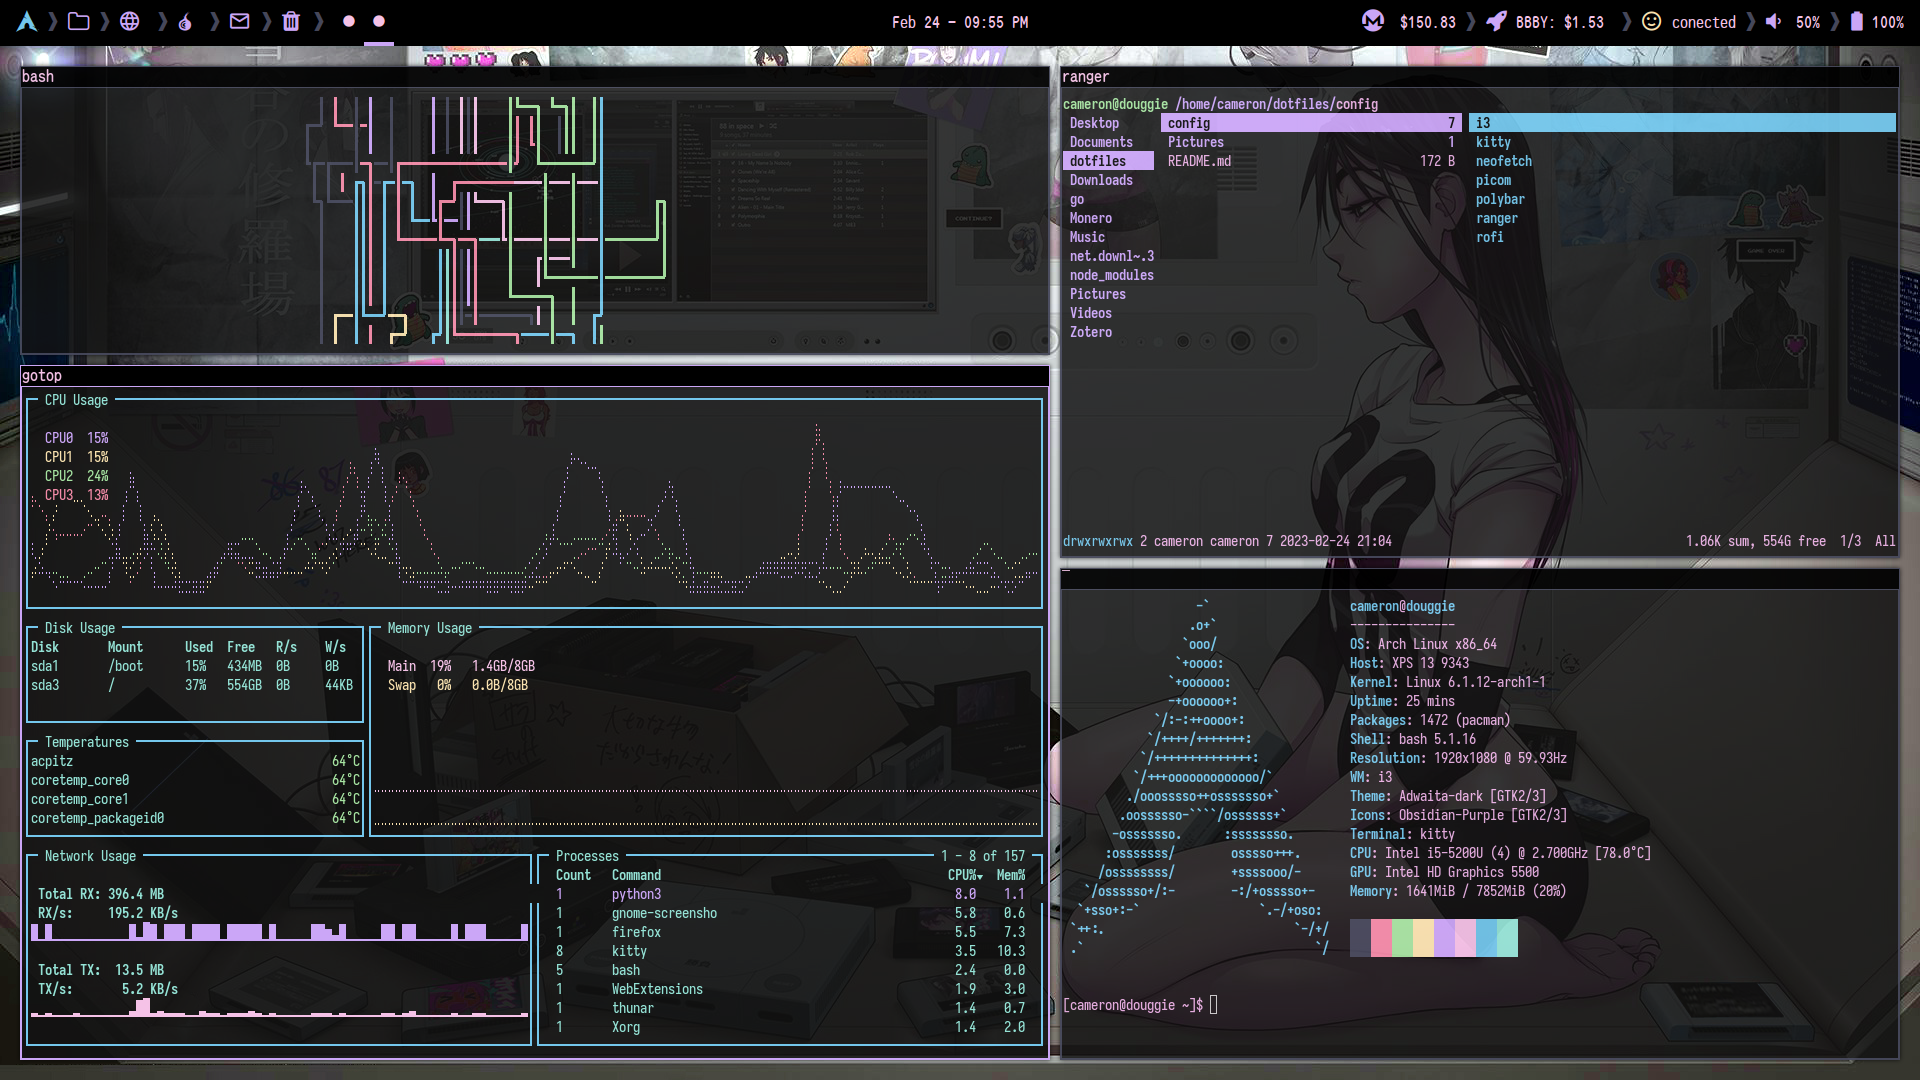
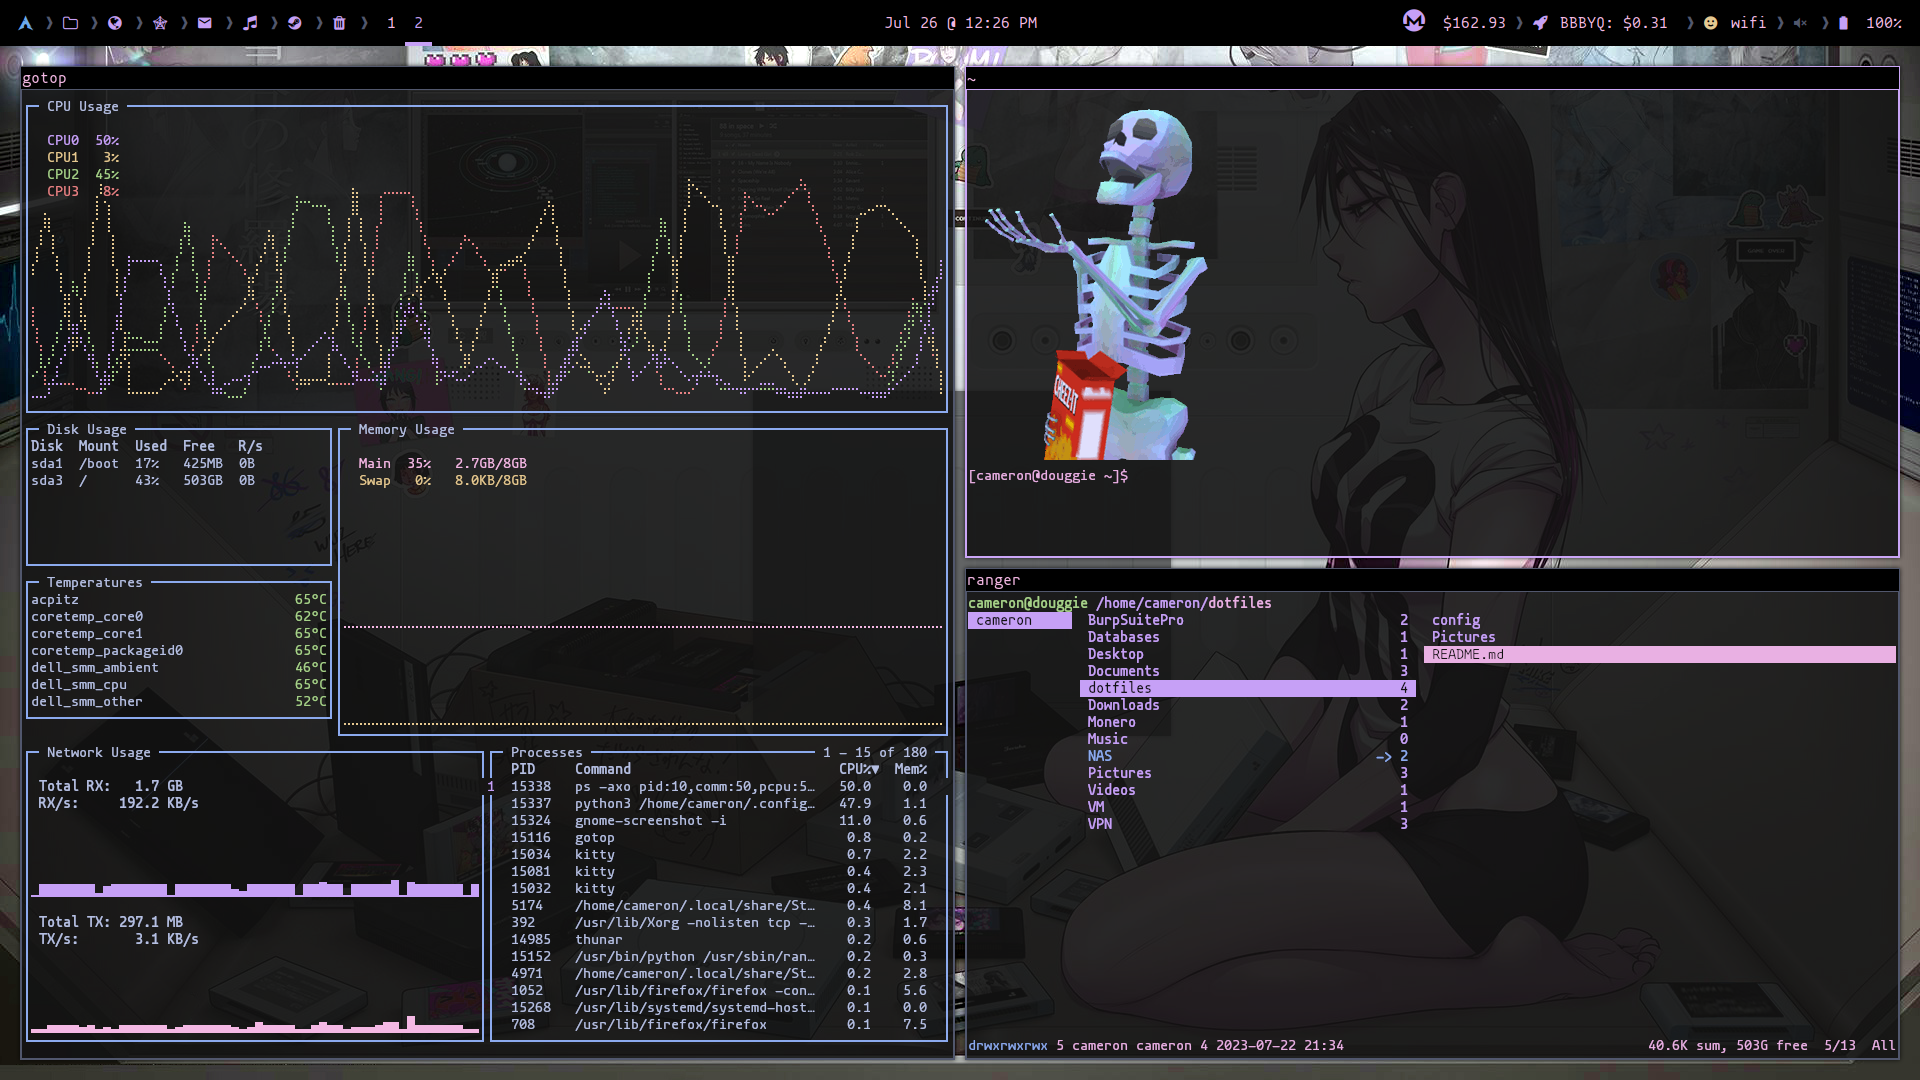
07-26-23
-Added nvim config
-Changed font to Mononoke
-Changed colors to Catpuccin Macchiato

diff --git a/README.md b/README.md
@@ -9,4 +9,5 @@ terminal > kitty<br>
 bar > polybar<br>
 launcher > rofi<br>
 compositor > picom<br>
-notification > dunst
+text > nvim<br>
+file manager > ranger
